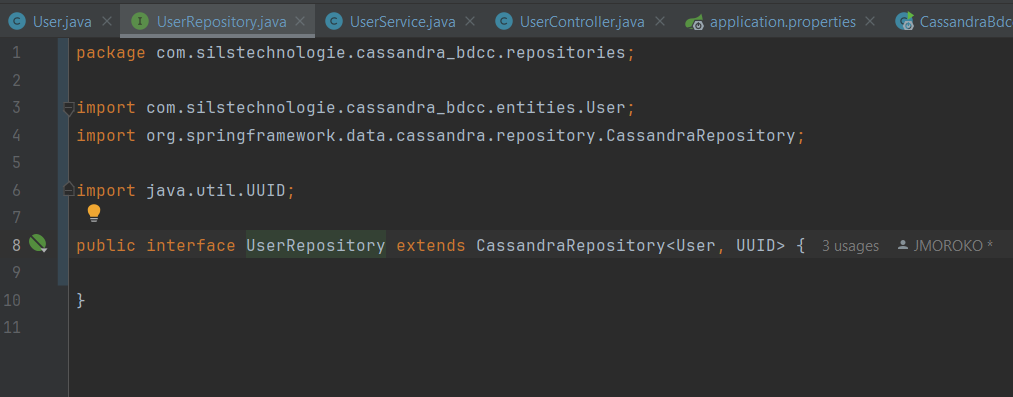
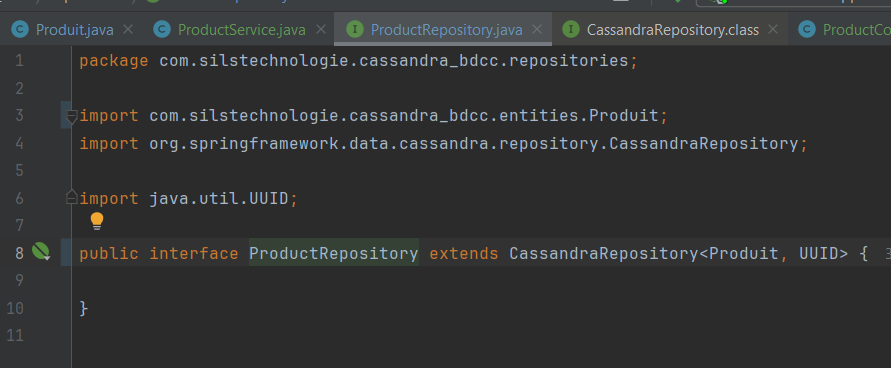
refract

diff --git a/src/main/java/com/silstechnologie/cassandra_bdcc/services/ProductService.java b/src/main/java/com/silstechnologie/cassandra_bdcc/services/ProductService.java
@@ -1,0 +1,52 @@
+package com.silstechnologie.cassandra_bdcc.services;
+
+import com.silstechnologie.cassandra_bdcc.entities.Produit;
+import com.silstechnologie.cassandra_bdcc.repositories.ProductRepository;
+import org.springframework.stereotype.Service;
+
+import java.util.List;
+import java.util.UUID;
+
+@Service
+public class ProductService {
+    private ProductRepository repository;
+
+    public ProductService(ProductRepository repository) {
+        this.repository = repository;
+    }
+    public void addUser(String name, double prix, int quantite){
+        Produit produit = new Produit();
+        produit.setName(name);
+        produit.setPrix(prix);
+        produit.setQuantite(quantite);
+
+        produit.setId(UUID.randomUUID());
+
+        repository.insert(produit);
+    }
+    public void editProduit(UUID id, String name, double prix, int quantite){
+        Produit produit = repository.findById(id).orElse(null);
+
+        if(produit ==null) throw new RuntimeException("Le produit selectionné n'existe pas");
+
+        produit.setName(name);
+        produit.setPrix(prix);
+        produit.setQuantite(quantite);
+
+        repository.insert(produit);
+    }
+
+    public void delete(UUID id){
+        Produit produit = repository.findById(id).orElse(null);
+
+        if(produit ==null) throw new RuntimeException("Le produit selectionné n'existe pas");
+
+        repository.delete(produit);
+    }
+
+    public List<Produit> getAllUsers(){
+        return repository.findAll();
+    }
+
+
+}

diff --git a/src/main/java/com/silstechnologie/cassandra_bdcc/web/ProductController.java b/src/main/java/com/silstechnologie/cassandra_bdcc/web/ProductController.java
@@ -1,0 +1,40 @@
+package com.silstechnologie.cassandra_bdcc.web;
+
+import com.silstechnologie.cassandra_bdcc.entities.Produit;
+import com.silstechnologie.cassandra_bdcc.services.ProductService;
+import org.springframework.web.bind.annotation.*;
+
+import java.util.List;
+import java.util.UUID;
+
+@RestController
+@RequestMapping("/products")
+public class ProductController {
+    private ProductService service;
+
+
+    public ProductController(ProductService userService) {
+        this.service = userService;
+    }
+
+    @GetMapping
+    public List<Produit> getUsers(){
+        return service.getAllUsers();
+    }
+
+    @PostMapping
+    public String saveUser(@RequestParam String name, @RequestParam double prix, @RequestParam int quantite){
+        service.addUser(name, prix, quantite);
+        return "Produit is saved";
+    }
+    @PutMapping
+    public String edit(@RequestParam UUID id, @RequestParam String name, @RequestParam double prix, @RequestParam int quantite){
+        service.editProduit(id, name, prix, quantite);
+        return "Produit is updated";
+    }
+    @DeleteMapping
+    public String delete(@RequestParam UUID id){
+        service.delete(id);
+        return "Produit is deleted";
+    }
+}

diff --git a/src/main/java/com/silstechnologie/cassandra_bdcc/entities/Produit.java b/src/main/java/com/silstechnologie/cassandra_bdcc/entities/Produit.java
@@ -9,12 +9,12 @@ import org.springframework.data.cassandra.core.mapping.Table;
 
 import java.util.UUID;
 
-@Table("utilisateur") //anotation cassandra
+@Table("produit") //anotation cassandra
 @AllArgsConstructor @NoArgsConstructor @Getter @Setter
-public class User {
+public class Produit {
     @PrimaryKey //anotation cassandra
     private UUID id;
     private String name;
-    private int age;
-    private String email;
+    private double prix;
+    private int quantite;
 }

diff --git a/src/main/java/com/silstechnologie/cassandra_bdcc/repositories/ProductRepository.java b/src/main/java/com/silstechnologie/cassandra_bdcc/repositories/ProductRepository.java
@@ -1,10 +1,10 @@
 package com.silstechnologie.cassandra_bdcc.repositories;
 
-import com.silstechnologie.cassandra_bdcc.entities.User;
+import com.silstechnologie.cassandra_bdcc.entities.Produit;
 import org.springframework.data.cassandra.repository.CassandraRepository;
 
 import java.util.UUID;
 
-public interface UserRepository extends CassandraRepository<User, UUID> {
+public interface ProductRepository extends CassandraRepository<Produit, UUID> {
 
 }

diff --git a/readme.md b/readme.md
@@ -14,3 +14,6 @@
 # Postman
 <img src="assets/7.png" /> <br>
 <img src="assets/8.png" /> <br>
+<img src="assets/9.png" /> <br>
+<img src="assets/10.png" /> <br>
+<img src="assets/11.png" /> <br>
